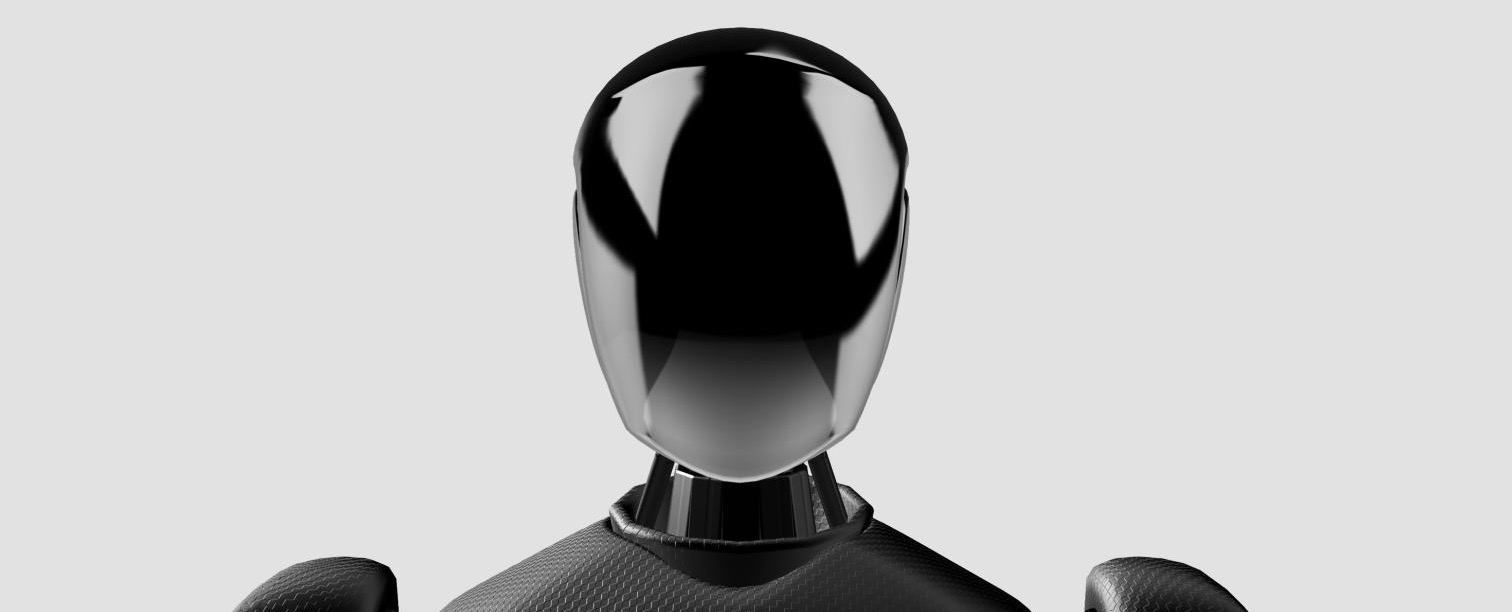
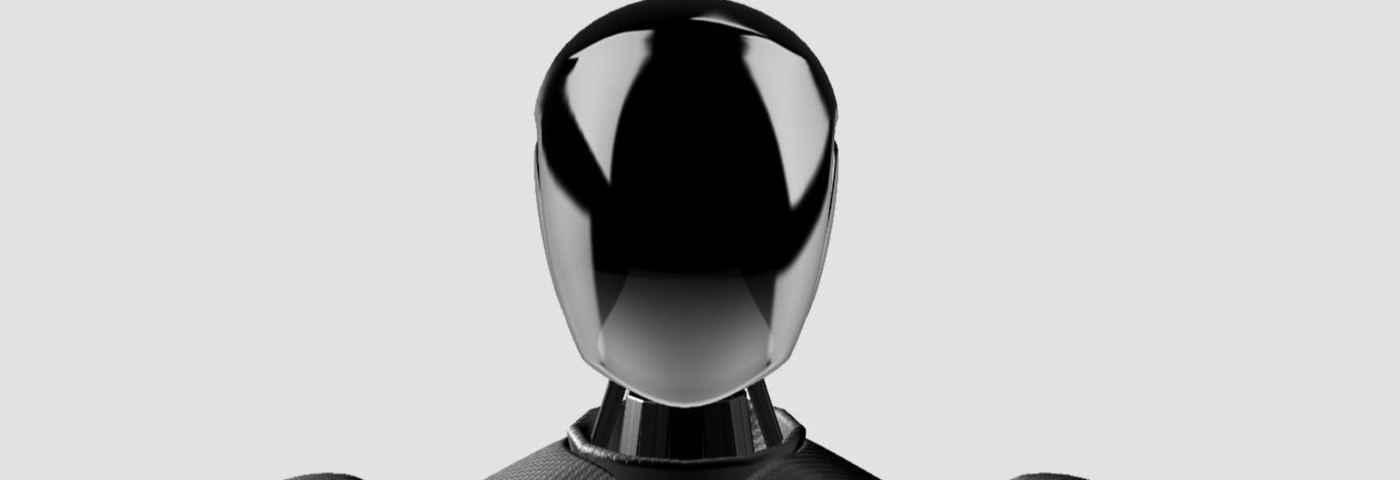
Match mobile robot sizing to desktop and speed up the reveal
Removes the mobile-specific shrink/contain override so the robot behaves
the same (tall, scrollable) on all screen sizes. Adds a preconnect hint for
the Spline embed and trims the crossfade's artificial delay buffers for a
snappier reveal.

diff --git a/assets/css/nexus.css b/assets/css/nexus.css
@@ -120,16 +120,6 @@ a:focus-visible, button:focus-visible, input:focus-visible {
 }
 .bot-fallback.is-hidden { opacity: 0; }
 
-@media (max-width: 640px) {
-  /* 160vh assumes a wide desktop viewport — on a narrow phone screen that's
-     an extremely tall, narrow box, which forces both the fallback image
-     (object-fit: cover) and the live embed's camera to zoom in tightly and
-     crop most of the robot out of view. A shorter box keeps the aspect
-     ratio closer to the scene's own (wide) framing. */
-  .bot-stage { height: 70vh; }
-  .bot-fallback { object-fit: contain; }
-}
-
 .eyebrow {
   text-align: center;
   font-family: var(--font-display);

diff --git a/assets/js/nexus.js b/assets/js/nexus.js
@@ -136,8 +136,8 @@ function answerFor(question) {
   const embed = document.querySelector("[data-bot-embed]");
   if (!embed || window.matchMedia("(prefers-reduced-motion: reduce)").matches) return;
 
-  const MIN_DELAY_MS = 6000;
-  const MAX_WAIT_MS = 20000;
+  const MIN_DELAY_MS = 2000;
+  const MAX_WAIT_MS = 12000;
   const fallback = document.querySelector("[data-bot-fallback]");
   let loaded = false;
   let revealed = false;

diff --git a/index.html b/index.html
@@ -13,6 +13,7 @@
   <link rel="apple-touch-icon" href="/apple-touch-icon.png" />
   <link rel="manifest" href="/manifest.json" />
   <link rel="stylesheet" href="/assets/css/nexus.css" />
+  <link rel="preconnect" href="https://app.spline.design" />
 </head>
 <body>
 
